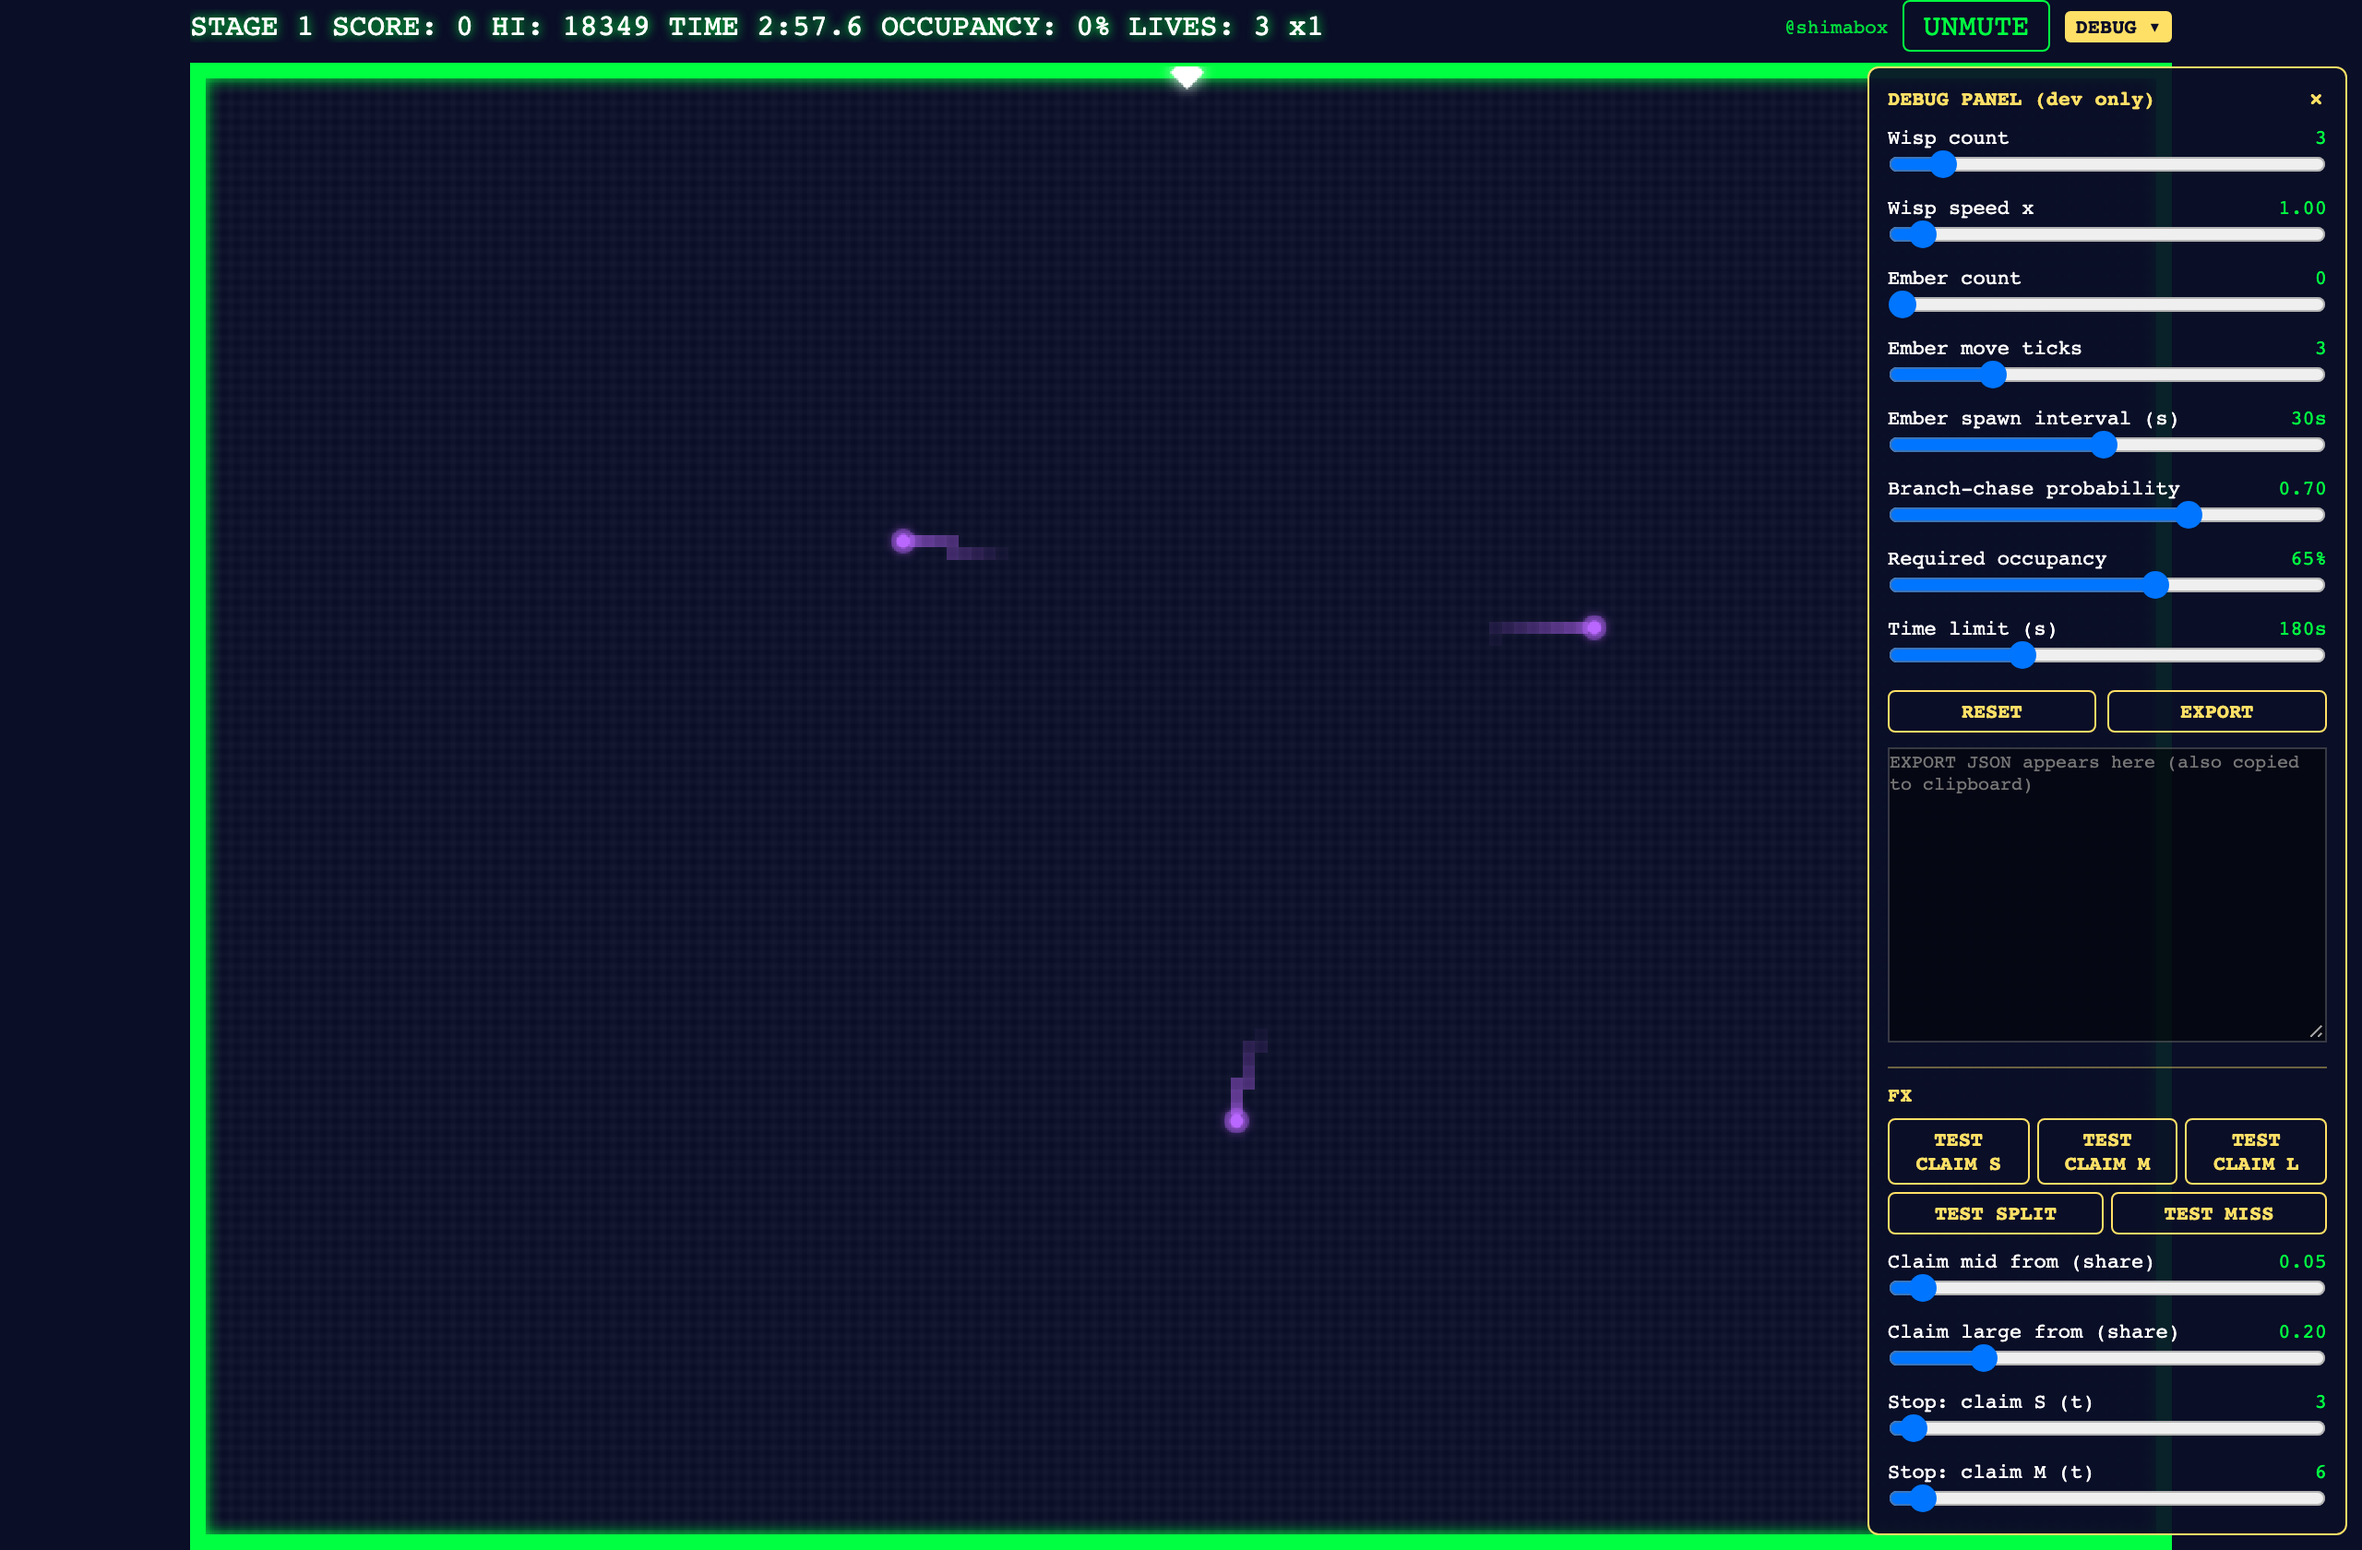
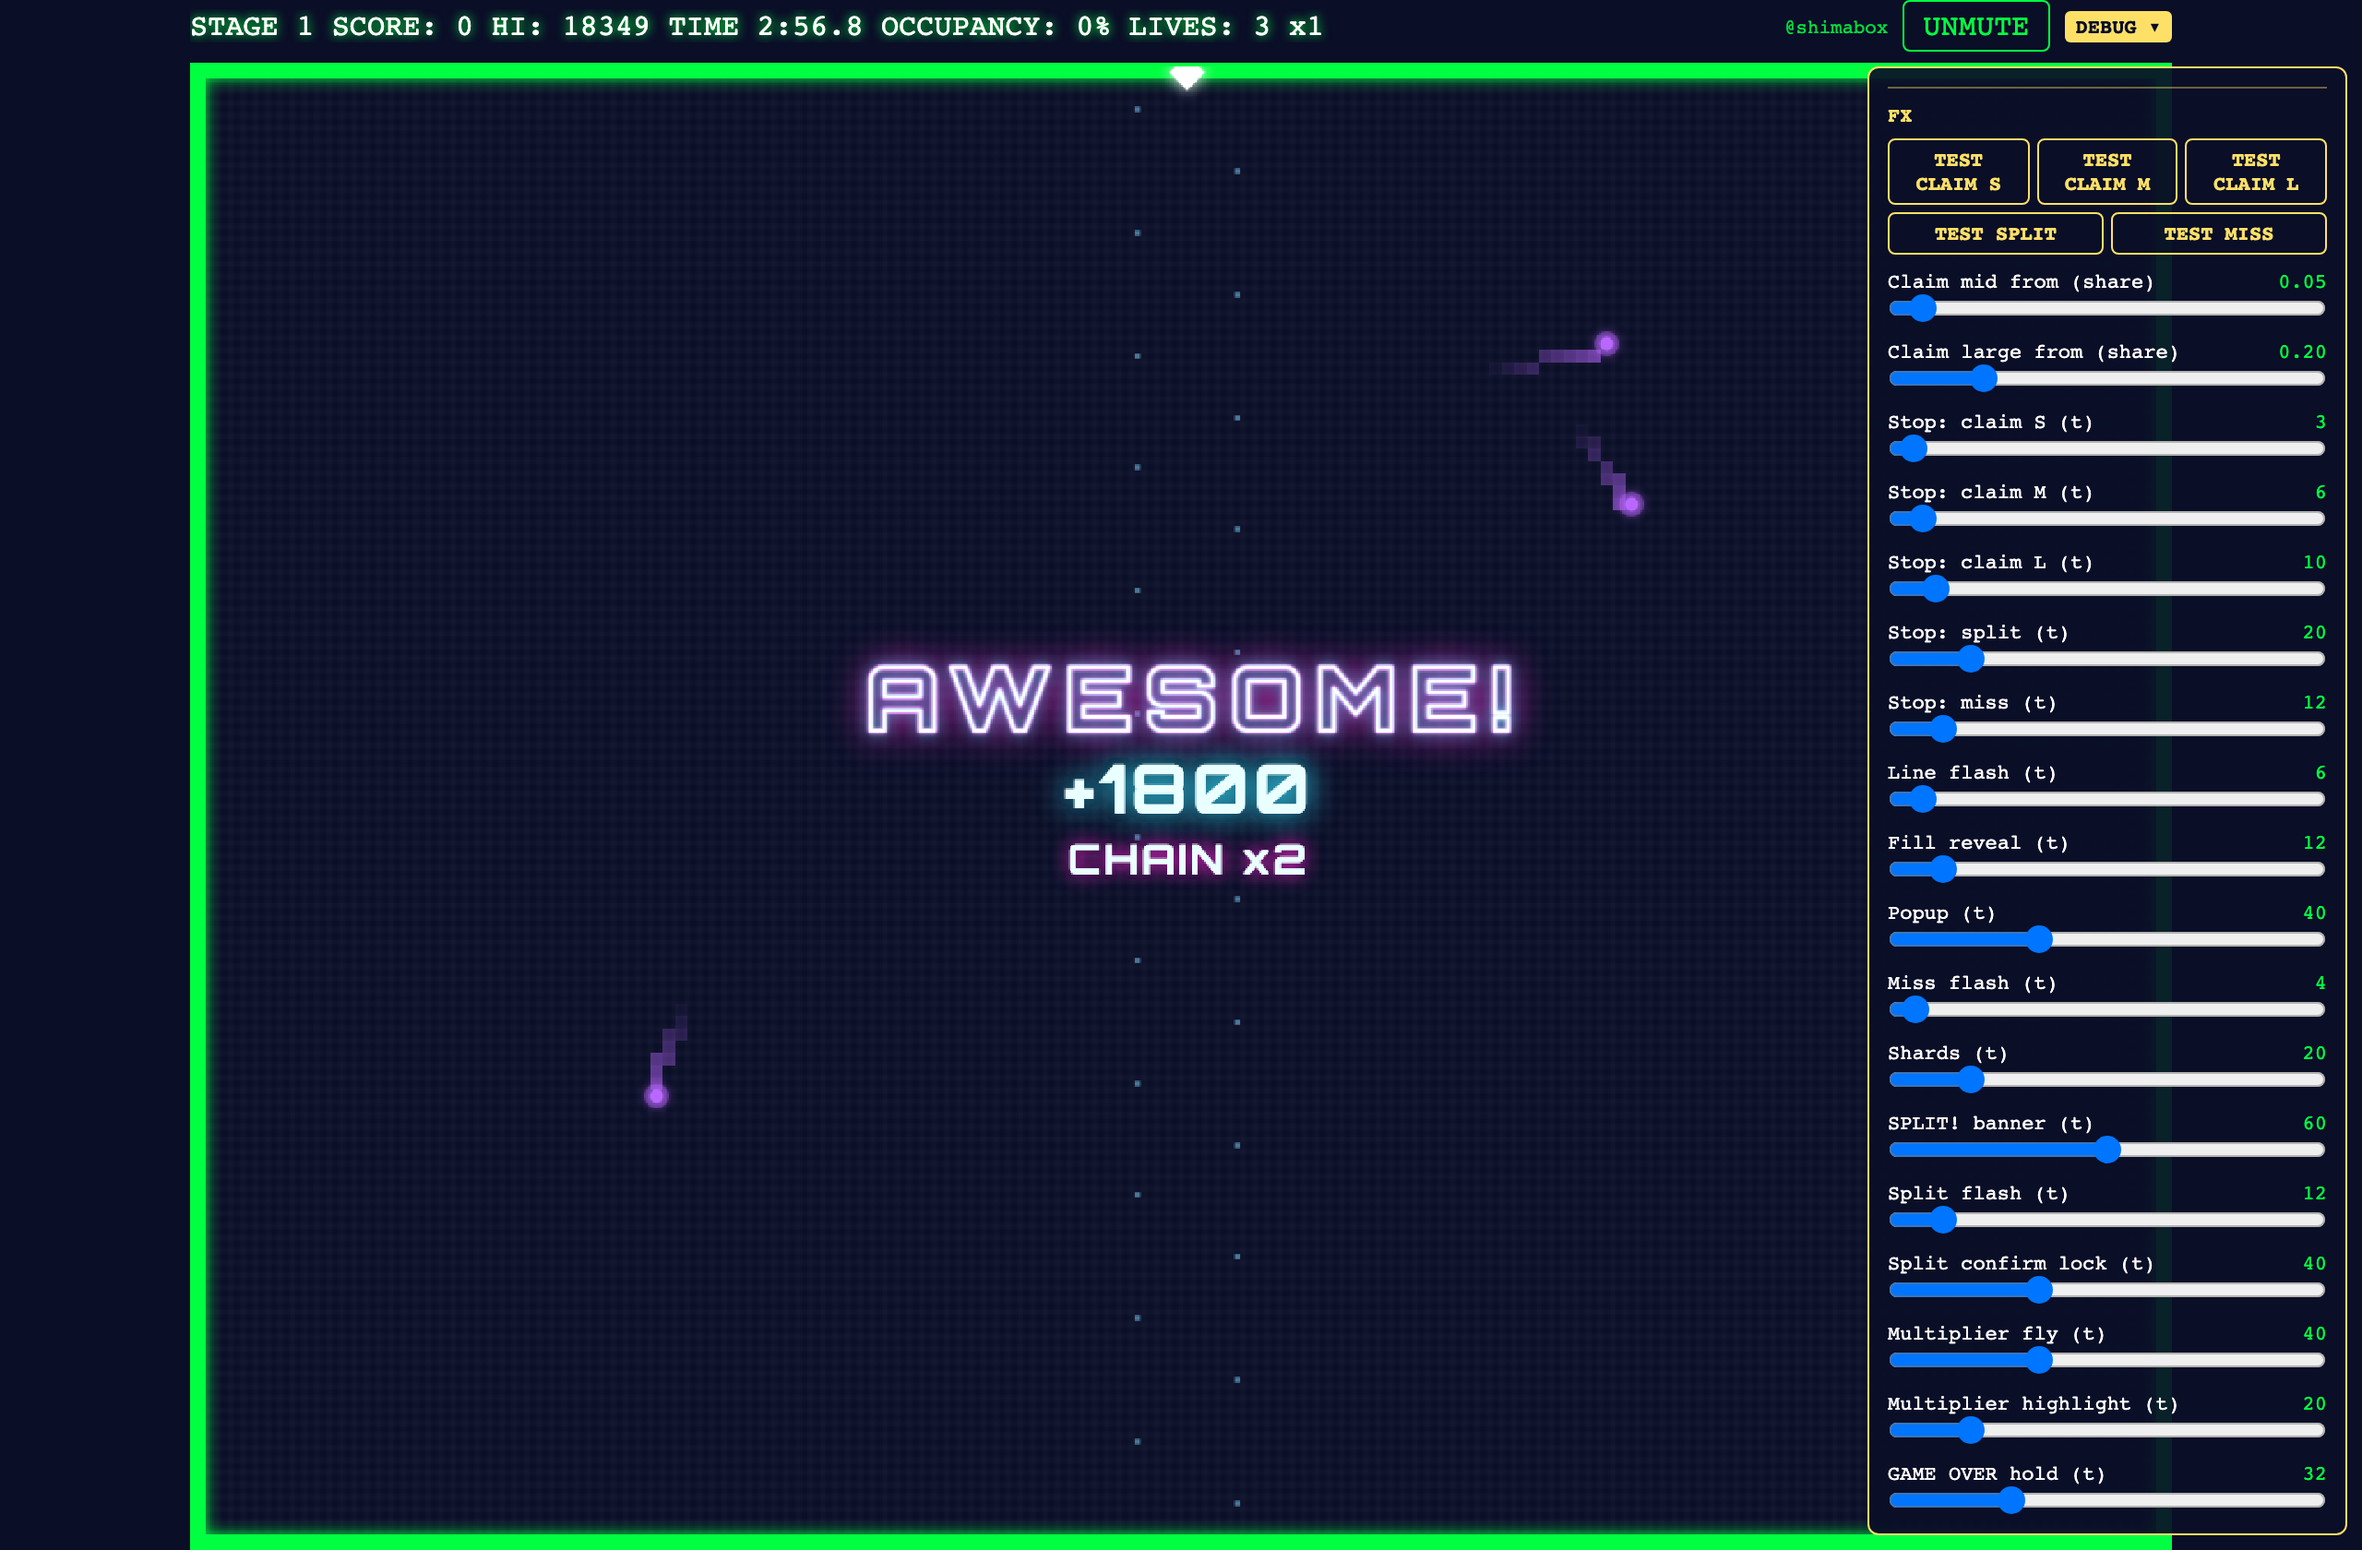
docs: show the neon SPLIT! and credit the bundled font

diff --git a/README.md b/README.md
@@ -76,9 +76,9 @@ npm run typecheck  # tsc --noEmit
 
 ### デバッグパネル（開発用）
 
-開発サーバで URL に `?debug` を付けると、敵の数・速度・出現間隔・要求占有率などをスライダーで即時調整できるパネルが出ます（プロダクションビルドには含まれません）。下の `FX` の区画では、確定・分断・ミスの演出（止め・揺れ・表示の長さなど）の数値を調整し、`TEST CLAIM S / M / L`・`TEST SPLIT`・`TEST MISS` で試し打ちできます。この区画はプレイの設定を変えないので、使ってもハイスコアの保存やランキングの投稿に影響しません。`EXPORT` でチューニング結果を JSON として書き出せます。
+開発サーバで URL に `?debug` を付けると、敵の数・速度・出現間隔・要求占有率などをスライダーで即時調整できるパネルが出ます（プロダクションビルドには含まれません）。下の `FX` の区画では、確定・分断・ミスの演出（止め・揺れ・表示の長さ・文字の裂け・火花・連続確定・スコアの数え上げなど）の数値を調整し、`TEST CLAIM S / M / L`・`TEST SPLIT`・`TEST MISS` で試し打ちできます。`TEST CLAIM` を続けて押すと、連続確定の表示と音の上がり方も確かめられます。この区画はプレイの設定を変えないので、使ってもハイスコアの保存やランキングの投稿に影響しません。`EXPORT` でチューニング結果を JSON として書き出せます。
 
-![デバッグパネル。Wisp を 3 体に増やしたところ。下に FX の区画がある](docs/images/readme-debug.png)
+![デバッグパネル。Wisp を 3 体に増やし、FX の区画の TEST CLAIM を続けて押したところ。盤面に AWESOME!、+1800、CHAIN x2 が出ている](docs/images/readme-debug.png)
 
 ## ディレクトリ構成
 
@@ -106,3 +106,5 @@ docs/
 ## ライセンス
 
 [MIT](LICENSE)
+
+演出の文字に使う書体 Orbitron（`public/fonts/Orbitron-wght.ttf`）を同梱しています。この書体のライセンスは SIL Open Font License 1.1 で、全文は [`public/fonts/Orbitron-OFL.txt`](public/fonts/Orbitron-OFL.txt) にあります。
